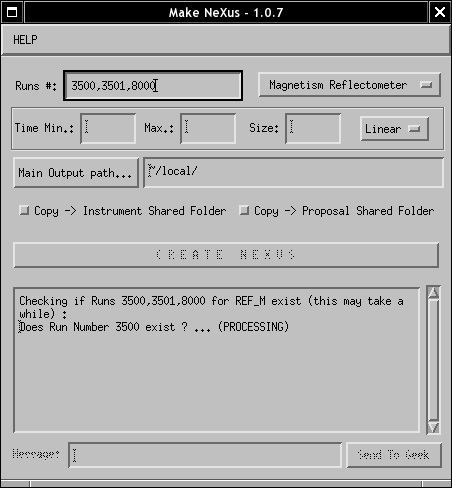
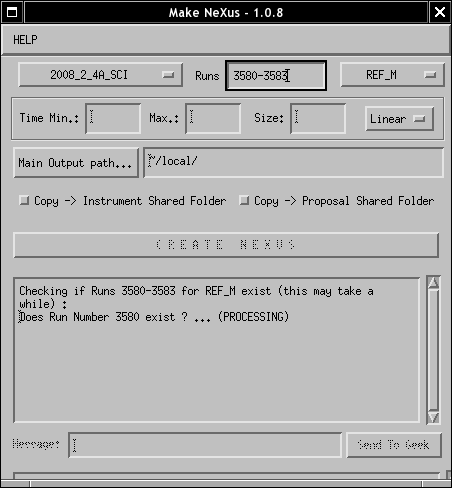
Updated help document. This resolves #781

Changed region(s): [[0.0, 0.123, 0.9912, 0.6762], [0.031, 0.8299, 1.0, 0.9836]]

diff --git a/branches/MakeNeXus/1.0/makenexusHELP/stepBYstep.html b/branches/MakeNeXus/1.0/makenexusHELP/stepBYstep.html
@@ -12,6 +12,8 @@ nomenclature:<ul><li>1454 -> run 1454</li>
 	      <li>1454-1457 -> run 1454, run 1455, run 1456 and run 1457</li>
 	      <li>1454,1456-1458 -> run 1454, run 1456, run 1457 and run 1458</li>
 	      </ul><br>
+You can speed up the search process by selecting the <b>proposal folder</b> from 
+where this run belongs. 
 <center><img src ='sbs1.png'></center>
 <center>Examples of Inputs</center>
 <br>Press <font color=blue>ENTER</font> or select an instrument to allow the program 
